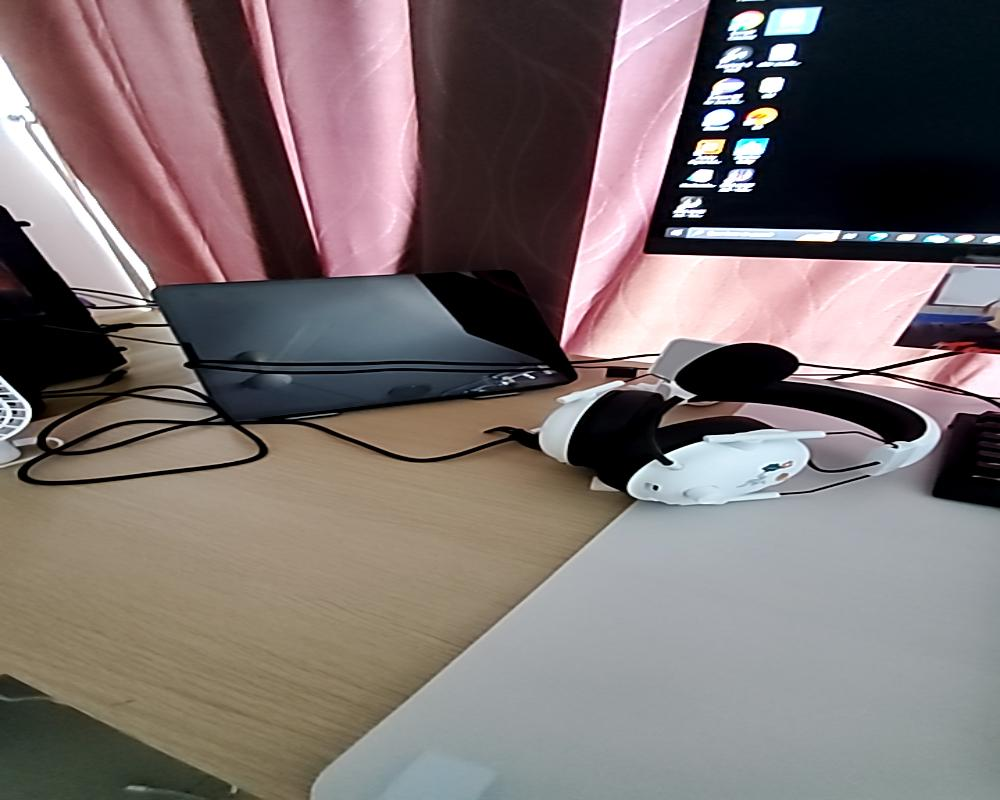
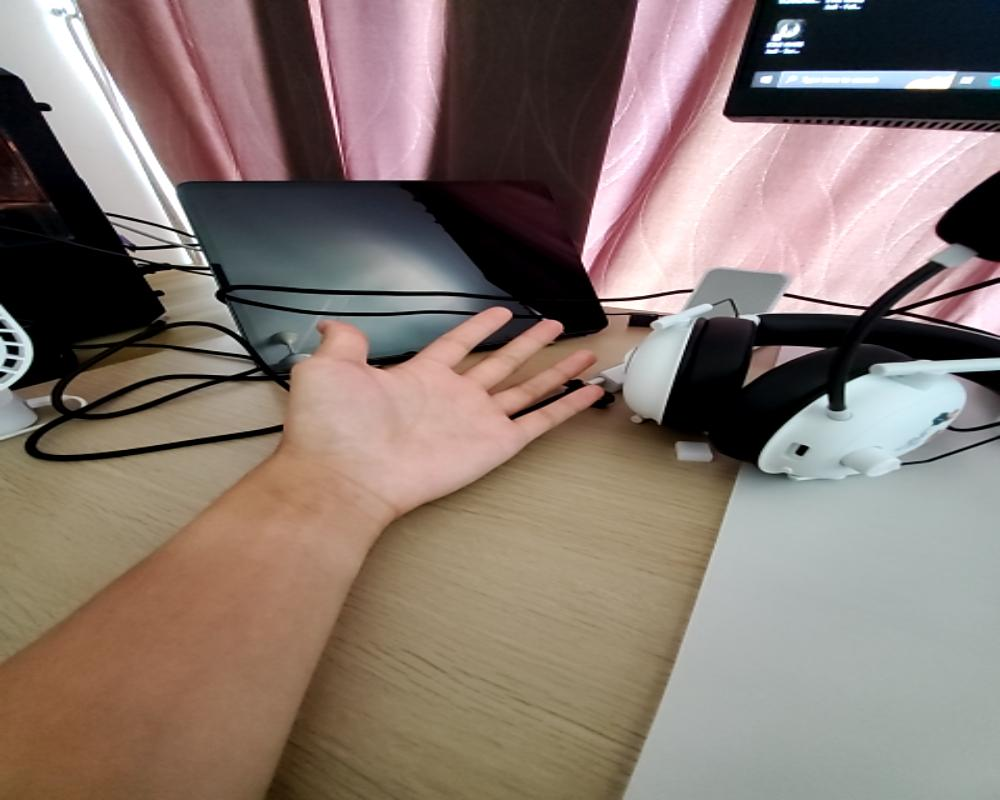
Fixing wide lens issue

diff --git a/script.js b/script.js
@@ -48,7 +48,7 @@ async function startCamera() {
                 // facingMode: 'environment', // 'user' for front camera, 'environment' for back camera
                 // width: { min: 640, ideal: 1280, max: 1920 },
                 // height: { min: 480, ideal: 720, max: 1080 },
-                
+
                 facingMode: { ideal: 'environment' },
                 focusDistance: { min: 0.05, ideal: 0.12, max: 0.3 }
             }
@@ -126,8 +126,8 @@ upload.addEventListener('click', () => {
     // const width = 1920;
     // const height = 1080;
 
-    const width = 1000;
-    const height = 800;
+    const width = 1920;
+    const height = 1080;
 
     canvas.width = width;
     canvas.height = height;
